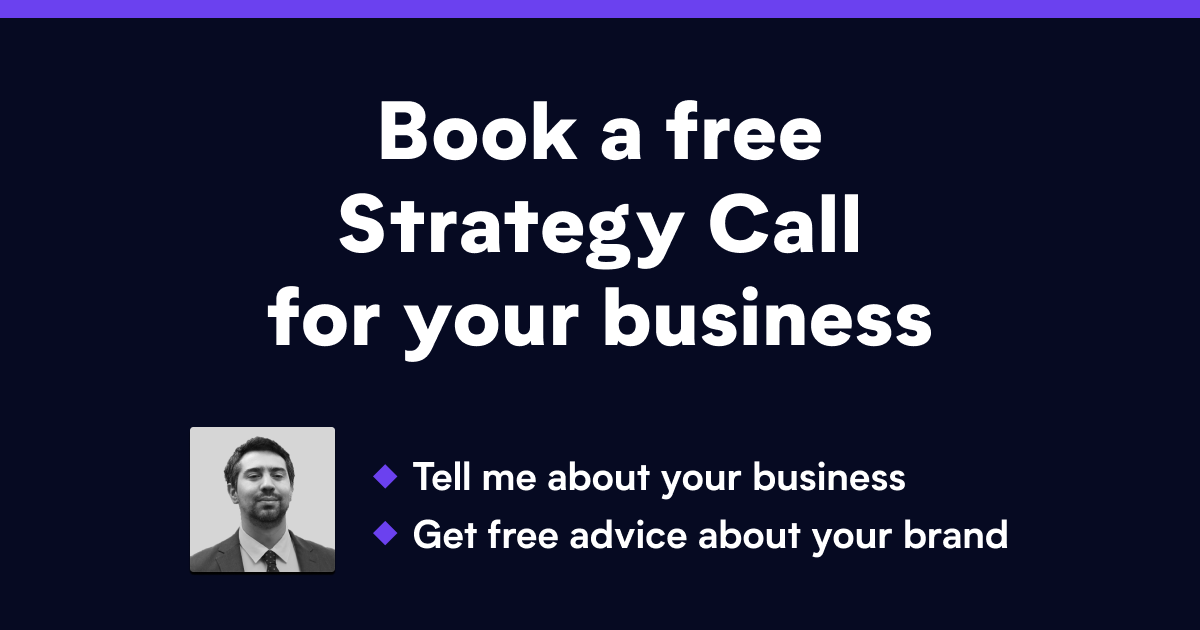
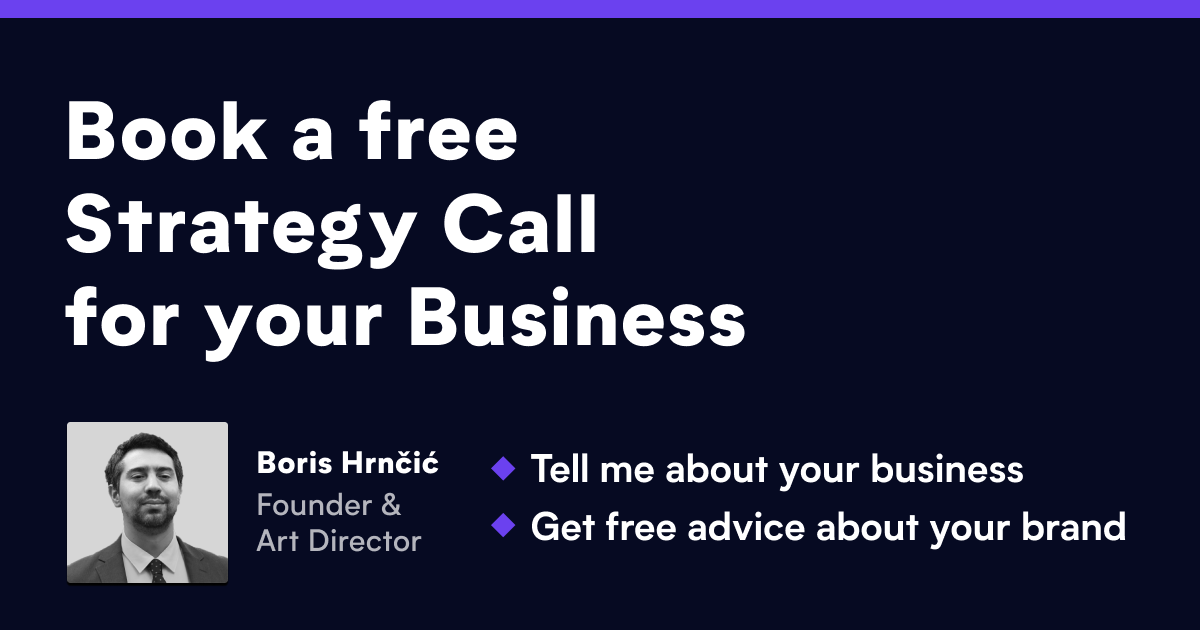
Updated meta img

diff --git a/strategy-call.php b/strategy-call.php
@@ -14,7 +14,7 @@
   <meta property="og:url" content="https://polyfen.com/strategy-call" />
   <meta name="keywords" content="Free, Brand, Audit, Report, Consultancy, Consultant, Branding, Marketing, Business, Digital, Analysis, Research, Strategy, Logo, Visual Identity, Website, Web, UX, Experience, CX, Growth, Scale, Start-up, Call, Meeting" />
   <meta name="description" property="og:description" content="Tell me about your business. Get free branding advice. No strings attached." />
-  <meta property="og:image" content="https://polyfen.com/imgs/meta/strategy-call_02.png" />
+  <meta property="og:image" content="https://polyfen.com/imgs/meta/strategy-call.png" />
   <meta property="og:image:width" content="1200" />
   <meta property="og:image:height" content="630" />
   <meta property="fb:app_id" content="1799272553516195" />
@@ -23,7 +23,7 @@
   <meta name="twitter:creator" content="@PolyfenAgency">
   <meta name="twitter:title" content="Book a free Strategy Call for your Business" />
   <meta name="twitter:description" content="Tell me about your business. Get free branding advice. No strings attached." />
-  <meta name="twitter:image" content="https://polyfen.com/imgs/meta/strategy-call_02.png" />
+  <meta name="twitter:image" content="https://polyfen.com/imgs/meta/strategy-call.png" />
   <meta name="robots" content="index, follow">
   <!-- PAGE-SPECIFIC META end -->
 
